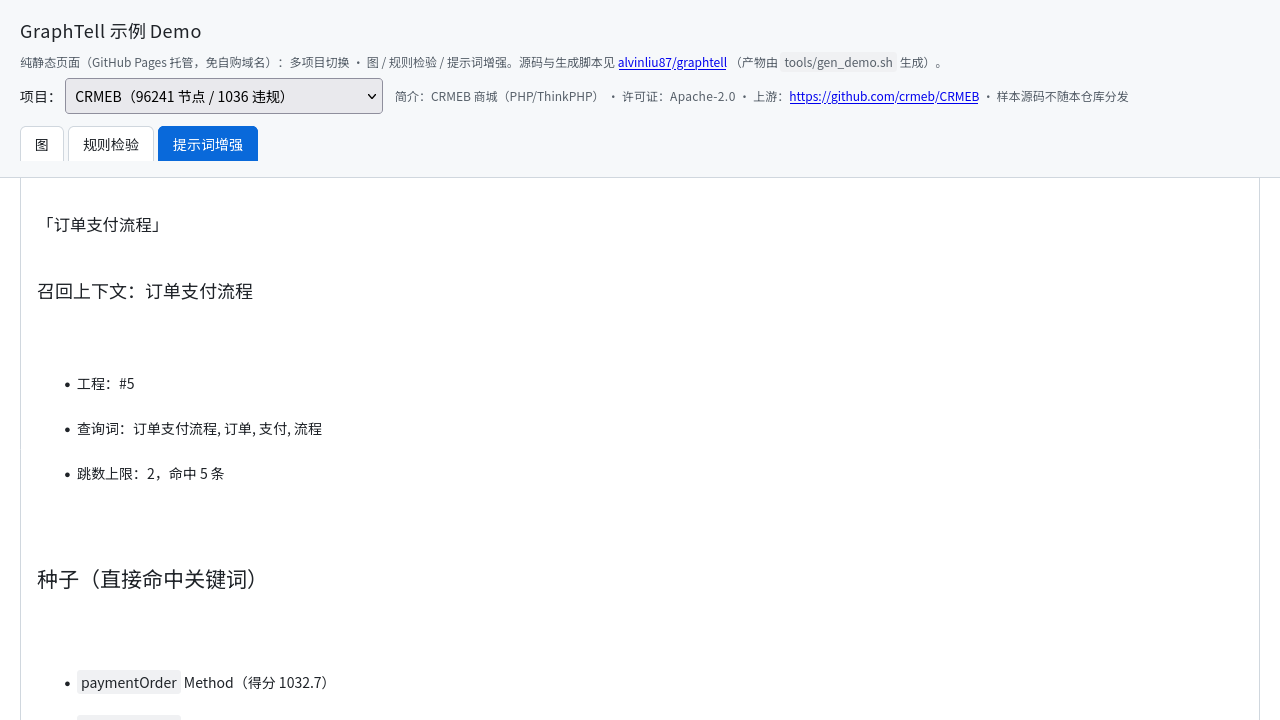
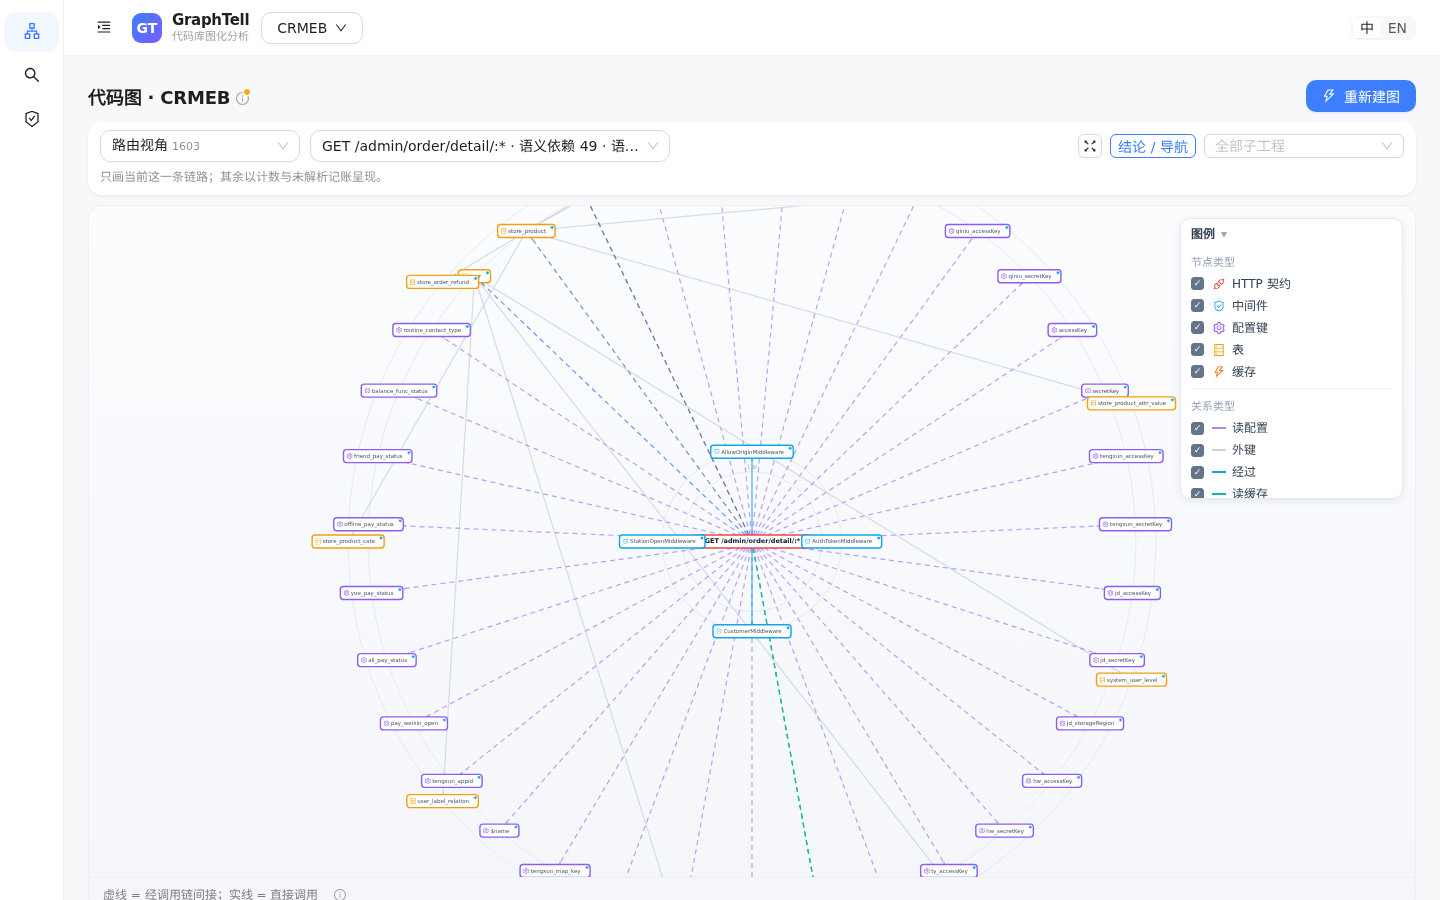
docs: 用真机截图刷新 demo 预览，并修正 replay 的 body 匹配
- docs/screenshots: 用 Playwright/Chromium 对本地 demo 真机截图，刷新
  graph-crmeb / rules-crmeb / recall，新增 home.png；与 docs/demo 本地运行一致。
- 根 README 语义图说明改为与截图内容一致（原「400 节点/894 边」已不符）。
- replay.js: 非 GET 请求优先按 body 精确匹配，使不同召回问句各返回各的结果。
- gen_ui_demo.py: README 模板引用新截图名。

diff --git a/graphtell/docs/demo/__api__/replay.js b/graphtell/docs/demo/__api__/replay.js
@@ -33,17 +33,20 @@
     const method = (req.method || 'GET').toUpperCase();
     const key = method + ' ' + norm(req.url);
     const base = method + ' ' + new URL(req.url, location.href).pathname;
-    let file = table[key];
-    if (!file && method !== 'GET') {
+    let file = null;
+    if (method !== 'GET') {
+      // 写 / 查询类：优先按 body 精确匹配（例如不同的召回问句各返回各的结果）
       let bodyKey = null;
       try {
         const text = await req.clone().text();
         const obj = JSON.parse(text || '{}');
         bodyKey = key + '|' + JSON.stringify(obj, Object.keys(obj).sort());
       } catch (e) { /* body 不是 JSON，忽略 */ }
-      file = (bodyKey && table[bodyKey]) || table[key + '|*'];
+      file = (bodyKey && table[bodyKey]) || table[key + '|*'] || table[key];
+    } else {
+      file = table[key];
     }
-    // 忽略查询参数 / body 的兜底：命中「同路径第一条」录制，保证页面照常渲染
+    // 忽略查询参数的兜底：命中「同路径第一条」录制，保证页面照常渲染
     if (!file) file = table[base];
     if (!file) {
       console.warn('[demo] 未录制的请求（静态 demo 无后端）:', method, norm(req.url));

diff --git a/graphtell/tools/gen_ui_demo.py b/graphtell/tools/gen_ui_demo.py
@@ -179,17 +179,20 @@ REPLAY_JS = r"""/* 静态 demo 的 API 回放：把 /api/* 请求改从预录的
     const method = (req.method || 'GET').toUpperCase();
     const key = method + ' ' + norm(req.url);
     const base = method + ' ' + new URL(req.url, location.href).pathname;
-    let file = table[key];
-    if (!file && method !== 'GET') {
+    let file = null;
+    if (method !== 'GET') {
+      // 写 / 查询类：优先按 body 精确匹配（例如不同的召回问句各返回各的结果）
       let bodyKey = null;
       try {
         const text = await req.clone().text();
         const obj = JSON.parse(text || '{}');
         bodyKey = key + '|' + JSON.stringify(obj, Object.keys(obj).sort());
       } catch (e) { /* body 不是 JSON，忽略 */ }
-      file = (bodyKey && table[bodyKey]) || table[key + '|*'];
+      file = (bodyKey && table[bodyKey]) || table[key + '|*'] || table[key];
+    } else {
+      file = table[key];
     }
-    // 忽略查询参数 / body 的兜底：命中「同路径第一条」录制，保证页面照常渲染
+    // 忽略查询参数的兜底：命中「同路径第一条」录制，保证页面照常渲染
     if (!file) file = table[base];
     if (!file) {
       console.warn('[demo] 未录制的请求（静态 demo 无后端）:', method, norm(req.url));
@@ -216,6 +219,12 @@ DEMO_README = r"""# GraphTell 静态 Demo
   点节点可展开链路（对象视图）。
 - **规则检验**：`合规` 页签看规则命中与诊断。
 - **提示词增强**：`召回 / 提示词` 页签，对**预置的中文问句**做代码召回并合成提示词。
+
+## 界面预览（真机截图，来自本 demo 本地运行）
+![工程总览](../screenshots/home.png)
+![语义图](../screenshots/graph-crmeb.png)
+![规则检验：违规表](../screenshots/rules-crmeb.png)
+![提示词增强](../screenshots/recall.png)
 
 ## 局限性（设计如此，非 bug）
 - 写操作（新建/删除工程、跑建图、文件浏览）在静态站上不可用——它们需要真后端。

diff --git a/graphtell/docs/demo/README.md b/graphtell/docs/demo/README.md
@@ -1,19 +1,38 @@
 # GraphTell 静态 Demo
 
-真实产品前端 + 录制 API 回放的纯静态站点（无后端依赖），可托管在 GitHub Pages。
+这是用**真实产品前端 + 录制 API 回放**生成的纯静态站点（无后端依赖），
+可直接托管在 GitHub Pages 等任意静态空间。
 
-## 能做什么
-- 浏览工程（CRMEB / Bagisto / 自造夹具）
-- 语义图：进入工程「图」页签，看路由/表/事件等视角的语义依赖图，点节点展开链路
-- 规则检验：合规页签看规则命中与诊断
-- 提示词增强：召回/提示词页签，对预置中文问句做代码召回并合成提示词
+## 这个 demo 里能做什么
+- **浏览工程**：首页列出已录制的示例工程（CRMEB / Bagisto / 自造夹具）。
+- **语义图**：进入某工程的「图」页签，看路由/表/事件等视角的语义依赖图；
+  点节点可展开链路（对象视图）。
+- **规则检验**：`合规` 页签看规则命中与诊断。
+- **提示词增强**：`召回 / 提示词` 页签，对**预置的中文问句**做代码召回并合成提示词。
 
-## 局限（设计如此）
-- 写操作（新建/删除工程、跑建图、文件浏览）需真后端，静态站不可用
-- 召回/提示词只能选预置问句命中录制；任意新输入会回落到某条预置结果
-- 未录制的深度请求会拿到空或「全局视角」兜底，页面降级而非崩溃
+## 界面预览（真机截图，来自本 demo 本地运行）
+![工程总览](../screenshots/home.png)
+![语义图](../screenshots/graph-crmeb.png)
+![规则检验：违规表](../screenshots/rules-crmeb.png)
+![提示词增强](../screenshots/recall.png)
 
-## 重新生成
-    python3 tools/gen_ui_demo.py                 # 默认样本（先 cargo build -p gt-app）
-    python3 tools/gen_ui_demo.py --sample 我的项目=/abs/path
-    python3 tools/gen_ui_demo.py --no-build
+## 局限性（设计如此，非 bug）
+- 写操作（新建/删除工程、跑建图、文件浏览）在静态站上不可用——它们需要真后端。
+- 召回/提示词的**输入框里只能选预置问句**会命中录制；任意新输入的问句会回落到某条
+  预置结果（页面不报错，但答案不是你输入的那个）。
+- 未经录制到的深度请求（比如手动改 URL 跳到一个没录的节点/视角）会拿到空或「全局视角」
+  兜底响应，页面降级而非崩溃。
+
+## 想换成你自己的样本 / 重新生成
+```bash
+# 默认样本（需先 cargo build -p gt-app）
+python3 tools/gen_ui_demo.py
+
+# 指定样本（name=绝对路径）
+python3 tools/gen_ui_demo.py --sample "我的项目=/abs/path/to/code"
+
+# 跳过前端构建（已构建过时）
+python3 tools/gen_ui_demo.py --no-build
+```
+生成物在 `docs/demo/`，整套作为站点根目录托管即可（已用相对路径 + hash 路由，
+挂在 `https://<user>.github.io/<repo>/` 子路径下也能正常工作）。

diff --git a/README.md b/README.md
@@ -62,7 +62,7 @@ HttpContract --HandledBy--> Method --ReadsDb--> Table
 
 于是"这个接口动了什么"是一眼看出来的事，而不是人工沿调用链翻十几跳。默认折叠视图**严格只留语义节点与语义边**，语法节点收进 `via` 链。
 
-![语义图：CRMEB 的连通子图（400 节点 / 894 边），按节点类型着色](graphtell/docs/screenshots/graph-crmeb.png)
+![语义图：CRMEB 路由视角，从选中的接口展开语义依赖（读表 / 读缓存 / 读配置 / 发队列），按节点类型着色](graphtell/docs/screenshots/graph-crmeb.png)
 
 > 上图为 CRMEB（全量 96,241 节点）的一个连通子图：**400 节点 / 894 边**，按类型着色，可缩放拖拽、点击看细节。
 
